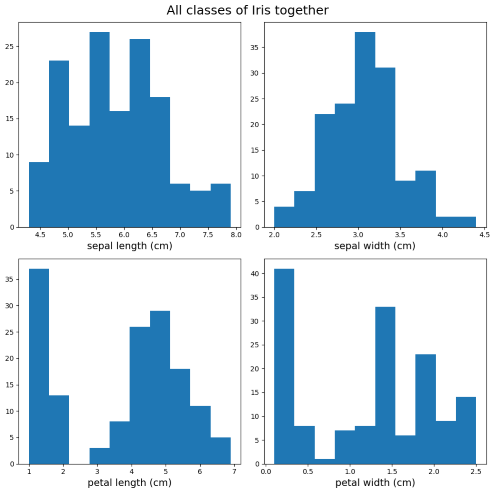
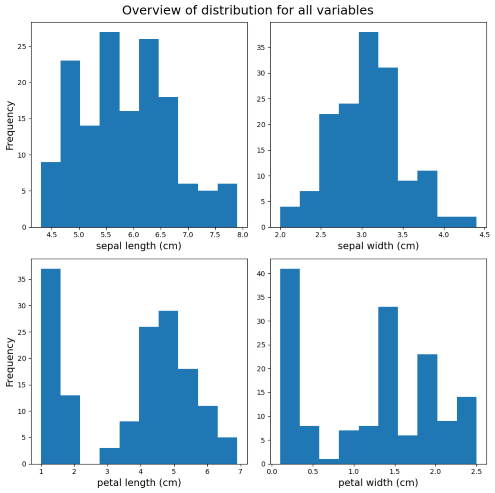
Hists improved to include y label for clarity of what is being measured on the y axis. Images updated in readme according.

diff --git a/analysis.py b/analysis.py
@@ -64,6 +64,7 @@ def hist_overall_and_per_class(variables_and_filenames): # creating a function w
                         plt.subplot(1, 2, 1) # number of rows and columns needed for the subplot is defined
                         plt.hist(df[variable_to_plot]) # histogram is created using the value assigned to the variable_to_plot variables and the check the entire dataset
                         plt.title('All classes of Iris together') # adding the title to the first subplot
+                        plt.ylabel('Frequency', fontsize=14) # adding a y label to the first subplot representing y axis for both plots
 
                         plt.subplot(1, 2, 2) # plotting the subplot to be placed in the second column
                         all_sepal_lengths = [df[df['class'] == 'Iris-setosa'][variable_to_plot], df[df['class'] == 'Iris-versicolor'][variable_to_plot], df[df['class'] == 'Iris-virginica'][variable_to_plot]] # using the filtered datasets to select the information per class of Iris to enable colour coding of the histogram per class
@@ -81,7 +82,7 @@ def hist_overall_and_per_class(variables_and_filenames): # creating a function w
 
                         plt.suptitle(f'Distribution of {variable_to_plot}', fontsize = 18, y= 1.05) # setting the overall title for the figure
                         # Adding a super x label to replace having two separate labels for the x axis setting the  position of the text, alignment, fontsize and style
-                        plt.figtext(0.5, -0.01, f'{variable_to_plot} (cm)', ha='center', fontsize=14, fontstyle='italic')
+                        plt.figtext(0.5, -0.01, f'{variable_to_plot} (cm)', ha='center', fontsize=14)
 
                         plt.savefig(PNG_filenames, bbox_inches='tight') # saving histograms as a PNG file with bbox_inches set to tight to avoid any text or info being cut from the figure
 
@@ -184,7 +185,8 @@ def hist_sep_per_class(variables_and_filenames, dfs_to_use, df):
                                         plt.subplot(4, 3, s) # dynamically setting the subplot position using the value assigned to s
                                         if s in (1, 4, 7, 10): # program will execute this block of code if the value for s matches one of the values in brackets
                                                 colour_to_use = 'violet'
-                                                plt.yticks([])
+                                               # plt.ylabel('Frequency', fontsize=14) # adding a y label to each row   
+                                                plt.ylabel('Frequency', fontsize=18)  # # adding a y label to the first subplot in each row representing y axis for all plots in row 
                                         elif s in (2, 5, 8, 11): # program will execute this block of code if the value for s matches one of the values in brackets
                                                 colour_to_use = 'navy' # setting colour for bins
                                                 plt.yticks([]) # removing y ticks since it will be the same range as the last plot in each row
@@ -193,6 +195,7 @@ def hist_sep_per_class(variables_and_filenames, dfs_to_use, df):
                                                 colour_to_use = 'orange' # setting the colour for the bins
                                                 plt.tick_params(axis='y', direction='out', right=True, labelright=True, left=False,
                                                                 labelleft=False) # moving the y ticks and labels to the right side of the plot
+                                                plt.yticks([])           
                                         plt.title('--------------------------', fontsize=20) # adding dashes as the title to help separate the subplots based on the variables
                                         setting_axis_limits(s) # calling function for setting the limits for the range on the y axis
                                         plt.hist(class_df[variable_to_plot], bins=bin_edges, color=colour_to_use) # plotting the histogram setting the number of bins and colour of the bins
@@ -217,6 +220,8 @@ def hist_sum_all_variables(variables_and_filenames):
                         plt.subplot(2, 2, i) # number of rows and columns needed for the subplot is defined
                         plt.hist(df[variable_to_plot]) # histogram is created using the value assigned to the variable_to_plot variables and the check the entire dataset
                         plt.xlabel(f'{variable_to_plot} (cm)', fontsize=14)
+                        if i in (1,3): # adding y label to the subplots located on the left
+                                plt.ylabel('Frequency', fontsize=14)
 
                         if i == 4: 
                                 plt.suptitle('Overview of distribution for all variables', y=.98, fontsize=18) # adding the title to the first subplot

diff --git a/README.md b/README.md
@@ -203,7 +203,7 @@ Then the histogram is created again for the subplot in the second position. Howe
 <font size="4"><b>Customizing the histograms</b></font> 
 
 &nbsp;&nbsp;&nbsp;&nbsp;&nbsp;&nbsp;&nbsp;&nbsp;Along with the figure size being set, there are various settings defined for customizing the appearance of the histogram.
-The colour to be used for plotting the data per class is defined, the yticks are removed from the second subplot to avoid overcrowding of the figure as it is using the same range as the first subplot.  An overall title detailing the variable which is being plotted is added and the font size and position set. A shared label for the x-axis is created using `figtext` since the plots share the same variable, the style, size and position of the text is defined. 
+The colour to be used for plotting the data per class is defined, the yticks are removed from the second subplot and no label is added to avoid overcrowding of the figure as it is using the same range as the first subplot.  An overall title detailing the variable which is being plotted is added and the font size and position set. A shared label for the x-axis is created using `figtext` since the plots share the same variable, the style, size and position of the text is defined. 
 
 Lastly, the file is saved using the filename passed in from the dictionary, it is ensured that no data like the title is cut off when saving using the `bbox_inches` attribute. A message is then printed to the user providing the filename and informing that the file has been created.
 
@@ -240,7 +240,7 @@ The `class_df` is then used to determine which class of data is represented in t
 The first item in the `dfs_to_use` list contains the entire unfiltered dataset, which we do not want to plot.   
 An `if` statement checks to ensure the plotting is only carried out for the other items in the list. 
 
-Depending on which subplot is being generated, the colour for the bins is set, the removal of the y ticks or repositioning of the ticks to the right-hand side of the plot in the last column of each row. A label is also added in these loops to show which variable is being plotted in the row.  
+Depending on which subplot is being generated, the colour for the bins is set, the removal of the y ticks or addition of a y label. A label for the x-axis is also added in these loops to show which variable is being plotted in the row.  
 The title field is used to create a line break in between the rows to emphasize the separation of the variables per row.
 
 <font size="4"><b>Setting y-axis range</b></font>  
@@ -276,7 +276,7 @@ For the creation of the histogram file the relevant components in the main code 
 If the file is not existing already, the program continues the `try` path.  
 
 The size of the final figure is then set. A `for` loop is initiated with a counter `i` starting at 1. This counter is important as it will be used to dynamically set the subplot location depending on the iteration. The variable to plot is taken from the `variable_and_filenames` dictionary. This dictionary is also used as the bases for the `for` loop ensuring that each variable will be plotted. 
-Al label is added to the x-axis of each subplot to identify which variable is being shown in a specific plot. 
+A label is added to the x-axis of each subplot to identify which variable is being shown in a specific plot. On the first and third iteration a y label is added.
 
 On the fourth iteration, the loop completes additional one-time steps like adding a title to the plot and setting the location and font size for the title. `Matplotlib.pyplot`'s `tight_layout` is used to adjust the space between the plots as needed. The file is then saved and a message returned to the user informing the file has been created and specifying the filename.
 
@@ -389,14 +389,13 @@ If the understanding of the correlation of the variables was based solely on the
 
 Due to the heavy overlap of the Versicolor and Virginica markers on the sepal length vs sepal width plot, we can determine that this pairing would not be recommended for the use of trying to distinguish between the different classes. The wide spread of data for the variables also shows us that there is a lot of variety in the ranges in this pairing.  
 
-In contrast we see the class markers overlapping a lot less for the petal length vs petal width plot and so this pairing may be a better candidate to use as clusters are more defined per the individual classes.
+In contrast we see the class markers overlapping a lot less for the petal length vs petal width plot and so this pairing may be a better candidate to use as clusters are more defined per the individual classes. We can also see that this pairing appears to have the strongest relationship when looking at the scatter plot, this we know is correct from our analysis of the calculated correlations, with the correlation coefficient of the petal width & petal width for the entire dataset coming to 0.962757. 
 
 From the plots we can also see that of the classes, the Virginica class tends to have the widest and longest petals, with Setosa being much smaller in this respect.  
 
-The scatter plot illustrates the variety in shape and size of the characteristics per class while also being a useful tool for potentially helping classify the data or make predictions about the class of an Iris depending on the measurements. For example, in this case, it would be most easily used to determine if an Iris was Setosa or not due to their more distinct sizes compared to the Versicolor and Virginica classes.
+The scatter plot illustrates the variety in shape and size of the characteristics per class while also being a useful tool for potentially helping classify the data or make predictions about the class of an Iris depending on the measurements. For example, it would be most easily used to determine if an Iris was Setosa or not due to their more distinct sizes compared to the Versicolor and Virginica classes.
 
-The scatter plot also helps to visualise the correlation previously discussed for each of the variables. 
-By seeing the plots of the pairings colour coding per class we can match the calculated correlation to the patterns in the plot, helping to show how the values of the variables per class impacts the correlation.
+The scatter plot also helps to visualise the correlation, by seeing the plots of the pairings colour coding per class we can match the calculated correlation to the patterns in the plot, helping to show how the values of the variables per class impacts the correlation.
 
 ### Histogram analysis
 
@@ -422,14 +421,14 @@ Keeping this in mind, we'll take a look further into the different variables sep
 
 ![Histogram showing petal length overall and per class](Images_for_readme/plots/hist_petal_length.png)  
 
-&nbsp;&nbsp;&nbsp;&nbsp;&nbsp;&nbsp;&nbsp;&nbsp;When looking at the Petal length for the entire dataset as one, there appears to be moderate variety in the data, with one peak completely separated from the remaining cluster. 
+&nbsp;&nbsp;&nbsp;&nbsp;&nbsp;&nbsp;&nbsp;&nbsp;When looking at the Petal length for the entire dataset as one, there appears to be moderate variety in the data. The resulting histogram is non-symmetric bimodal shape, with one peak completely separated from the remaining cluster. 
 
-From the summary file we identified that the standard deviation for the petal length is 1.76cm. Knowing the range is 1cm (min) to 6.9cm (max) we can interpret that that there is a moderate spread from the mean. From the text file we can also see that the mean is 3.76cm and looking at the plot above we see that this is one of the smaller bins in the histogram and that the distribution is not uniform with a clear gap between two clusters in the histogram.
+From the summary file we identified that the standard deviation for the petal length is 1.76cm. Knowing the range is 1cm (min) &rarr; 6.9cm (max) we can interpret that that there is a moderate spread from the mean. From the text file we can also see that the mean is 3.76cm and looking at the plot above we see that this is one of the smaller bins in the histogram and that the distribution is not uniform with a clear gap between two clusters in the histogram.
 
 Adding in the class a new perspective is shown across the dataset.  
-For the Setosa we can see these flowers are separated from the rest with a strong grouping between 1 - 1.5 (cm). 
+For the Setosa we can see these flowers are separated from the rest, ranging from 1cm &rarr; 1.9cm, with a strong grouping between 1cm &rarr; 1.5cm. 
 
-For the Versicolor and Virginica we see an overlap with these two classes having more similarities when it comes to their petal length.
+For the Versicolor and Virginica we see an overlap with these two classes, suggesting these two classes have more similarities when it comes to their petal length compared to the Setosa class. With both classes contributing to the cluster on the right of the plot, spanning from 3cm &rarr; 6.9cm total, with Versicolor lying between 3cm &rarr; 5.1cm and Virginica between 4.5cm &rarr; 6.9cm. We can see for Versicolor the majority of entries lie between 4cm &rarr; 5cm. Lastly for the Virginica class we see the main grouping between 4.5cm &rarr; 5.75cm. 
 
 This shows us that the Setosa class are more easily distinguished from the remaining classes when it comes to petal length. We also see that the Virginica class are likely to be the longest of the petals while the Versicolor will fall somewhere in between the two.
 
@@ -442,46 +441,47 @@ For Versicolor we can see the histogram is a unimodal structure, while not as se
 
 ![Histogram showing petal width overall and per class](Images_for_readme/plots/hist_petal_width.png)
 
-&nbsp;&nbsp;&nbsp;&nbsp;&nbsp;&nbsp;&nbsp;&nbsp;Coming to the next variable, we'll now move on to the petal width. Looking at the dataset as a whole, we see the histogram is multimodal with multiple peaks in the plot suggesting that there is a lot of variability in petal widths across the dataset.
+&nbsp;&nbsp;&nbsp;&nbsp;&nbsp;&nbsp;&nbsp;&nbsp;Coming to the next variable, we'll now move on to the petal width. Looking at the dataset as a whole, we see the histogram is multimodal, ranging from 0.1cm &rarr; 2.5cm. The multiple peaks suggests that there is a lot of variability in petal widths across the dataset, from our summary file we can see there is a standard deviation of 0.763cm for the petal width suggesting moderate variability when comparing the overall range. 
 
 Interestingly, when we add the 3rd factor of class into the plot, we can see that the three peaks represent the main clusters for the individual classes. 
 
 ![Histogram showing petal width separated per class](Images_for_readme/plots/petal_width_per_class.png)
 
-Similarly to the petal length, we see that the Setosa data is clustered to the smaller end of the x-axis between (0.1cm to 0.6cm), with this clear separation of the petal width and length these characteristics could be a good candidate if trying to use the data to identify if an Iris is of the Setosa class.
+Similarly to the petal length, we see that the Setosa data is clustered to the smaller end of the x-axis between 0.1cm &rarr; 0.6cm, with this clear separation of the Setosa class from the rest when looking at the petal width and length, these characteristics could be a good candidate if trying to use the data for classification to identify if an Iris is of the Setosa class.
 
-With the Versicolor and Virginica classes, we again see slight overlap in the ranges. The histogram for the Versicolor class is unimodal with a clear peak in the distribution and lies again between the Setosa and Virginica classes in terms of size.  
-The Virginica class appears to have a less distinct peak and has more of a spread with the largest standard deviation of the group (0.27cm) and the largest petals in both length and width.
+With the Versicolor(1cm &rarr; 1.8cm) and Virginica(1.4cm &rarr; 2.5cm) classes, we again see slight overlap in the ranges. The histogram for the Versicolor class is unimodal with a clear peak in the distribution from 1.25cm &rarr; 1.5cm. The Versicolor entres again lie between the Setosa and Virginica classes in terms of size. 
+
+The Virginica class appears to have a less distinct peak and has more of a spread, this is confirmed by the standard deviation of 0.27cm making it the largest std of the group. From the histograms we can also see the Virginica call tends to the largest petals in both length and width.
 
 <font size="4"><b>Sepal length</b></font> 
 
 ![Histogram showing sepal length overall and per class](Images_for_readme/plots/hist_sepal_length.png)
 
-&nbsp;&nbsp;&nbsp;&nbsp;&nbsp;&nbsp;&nbsp;&nbsp;We'll next change from reviewing the petal characteristics to focus on the sepal length. Again, we see a multimodal histogram with the majority of the data clustered to the centre and left of the plot.  
+&nbsp;&nbsp;&nbsp;&nbsp;&nbsp;&nbsp;&nbsp;&nbsp;We'll next change from reviewing the petal characteristics to focus on the sepal length. Again, we see a multimodal histogram with the majority of the data clustered to the centre and slightly left of the plot.  
 
 In contrast to the histograms for petal length and width, we can see in the sepal length plot that there is much more of an overlap between the 3 species.  
 
 ![Histogram showing sepal length separated per class](Images_for_readme/plots/sepal_length_per_class.png)
 
-When looking at the classes isolated with their own plots, we can see that again the Setosa class falls towards the smaller end of the plot with a single peak. When also taking what we have learnt from the petal width and length into consideration, the data shows that the Setosa flowers tends to be clustered closely together in size, seeming to typically be smaller for these characteristics compared to the other classes. 
+When looking at the classes isolated with their own plots, we can see that again the Setosa class falls towards the smaller end of the x-axis, ranging from 4.3cm &rarr; 7.9cm, with the centre of data a single peak from 4.75cm &rarr; 5cm. When also taking what we have learnt from the petal width and length into consideration, the data shows that the Setosa flowers tends to be clustered closely together in size, seeming to typically be smaller for these characteristics compared to the other classes. 
 
 While there are many intrinsic factors which could contribute to this similarity between the Versicolor and Virginica class, it has been noted that botanist Edgar Anderson (who provided the data for R.A. Fisher to use) believed that the versicolor class could be the "result of hybridisation between the virginica and another class of Iris" [^2]. This adds another perspective as to why we may see the similarities between the two classes, also acting as reminder that while we can analyse the information contained within the dataset, there is nuance and further context that is not reflected.
 
-The range for Versicolor, like for the petal width and length, appears to be in the middle of the Setosa and Virginica clusters. Virginica again seeming to contribute mostly to the right end of the plot with a larger sepal length. 
+The range for Versicolor, like for the petal width and length, appears to be in the middle of the Setosa and Virginica clusters from 4.9cm &rarr; 7cm. Virginica, like with the variables discussed before, seeming to contribute to some of the larger records for sepal length from 4.9cm &rarr; 7.9. We can also see that the Virginica class has the widest spread of sepal length recorded with a std of 0.64cm, the highest of the 3 classes. 
 
 <font size="4"><b>Sepal Width</b></font> 
 
 ![Histogram showing sepal width overall and per class](Images_for_readme/plots/hist_sepal_width.png)  
 
-&nbsp;&nbsp;&nbsp;&nbsp;&nbsp;&nbsp;&nbsp;&nbsp;Lastly, we'll look to the sepal width. This histogram appears to be the closest of the variables to match the typical normal distribution shape, with one main peak around the mean (3.05cm).
+&nbsp;&nbsp;&nbsp;&nbsp;&nbsp;&nbsp;&nbsp;&nbsp;Lastly, we'll look to the sepal width. This histogram appears to be the closest of the variables to the typical normal distribution shape, with one main peak around the mean (3.05cm).
 
 Like with the sepal width, there is much more overlap between the classes versus the histograms of the petal length and width. 
 
 ![Histogram showing sepal width separated per class](Images_for_readme/plots/sepal_width_per_class.png)
 
-In contrast to the other variables, we see the Setosa cluster is located primarily on the right of the plot, making up the majority of the entries for the larger values recorded. 
+In contrast to the other variables, we see the Setosa cluster is located primarily on the right of the plot, making up the majority of the entries for the larger values recorded from 2.3cm &rarr; 4.4cm. We can also see that the Setosa cluster has the most bins, indicating the highest level of variability within the Setosa class. This is confirmed by the std which for the sepal width is highest within the Setosa class with 0.38cm.
 
-Versicolor in comparison is making up the left tail of the distribution, like the Setosa class the Virginica data also appears to be unimodal with one peak. 
+In comparison Versicolor is making up the left tail of the distribution positioned from 2cm &rarr; 3.4cm with a std of 0.31 and Virginica sitting in the of the plot from 2.2cm &rarr; 3.8cm with the smallest std of the group with 0.3cm. Each of the classes individual histogram appears to most comparable to a unimodal shape with one peak. 
 
 From looking at the sepal variables (width and length) we see for both that the ranges for the sepal characteristics tend to overlap more than that of the petal characteristics. The would indicate that the sepal characteristics are a less suitable option for identifying the class. 
 
@@ -500,7 +500,6 @@ While there are some who question the use of the dataset, due to its simplicity 
 
 ## Additional resources/reading
 ### Libraries within python
-
 
 &nbsp;&nbsp;&nbsp;&nbsp;&nbsp;&nbsp;&nbsp;&nbsp;Within the program we are importing various external libraries and classes to use throughout the notebook including: 
 - `Pandas`
@@ -568,34 +567,36 @@ For *analysis.py* it is pulling the variable and `.png` filename to be used with
 
 ## End
 
-[^1]: Quoted in Andy Kirk (2012) Data Visualization: a Successful Design Process : Data Visualization: a Successful Design Process. Birmingham, UK: Packt Publishing (Community Experience Distilled). Available at: https://search.ebscohost.com/login.aspx?direct=true&AuthType=ip,sso&db=e000xww&AN=526173&site=eds-live&scope=site  
-[^2]: Unwin, A. and Kleinman, K. (2021) ‘The iris data set: In search of the source of virginica’, Significance, 18(6), pp. 1-2. doi:10.1111/1740-9713.01589.  
-[^3]: https://en.wikipedia.org/wiki/Iris_flower_data_set#:~:text=).%5B1%5D-,Use%20of%20the%20data%20set,-%5Bedit%5D  
-[^4]: Horst, A.M., Hill, A.P. and Gorman, K.B. (2022) ‘Palmer Archipelago Penguins Data in the palmerpenguins R Package - An Alternative to Anderson’s Irises’, R Journal, 14(1), pp. 244–254. doi:10.32614/rj-2022-020.  
-[^5]: Maeck, M. (2018) ‘La classification des iris de Fisher revisitée’, Naturalistes Belges, 99(3), pp. 7. Available at: https://search.ebscohost.com/login.aspx?direct=true&AuthType=ip,sso&db=asn&AN=137579970&site=eds-live&scope=site  
-[^6]: https://levelup.gitconnected.com/unveiling-the-mysteries-of-the-iris-dataset-a-comprehensive-analysis-and-machine-learning-f5c4f9dbcd6d#:~:text=as%20a%20percentage.-,Why%20is%20the%20Iris%20Dataset%20so%20Popular%3F,-The%20Iris%20dataset  
-[^7]: https://pandas.pydata.org/docs/user_guide/10min.html#min  
-[^8]: https://www.geeksforgeeks.org/python-pandas-dataframe-corr/  
-[^9]: https://medium.com/@anala007/how-to-reshape-your-dataframe-with-pandas-stack-and-unstack-functions-3e2c86edc04a  
-[^10]: https://matplotlib.org/stable/users/explain/colors/colors.html  
-[^11]: https://matplotlib.org/2.0.2/api/markers_api.html  
+[^1]: Quoted in Andy Kirk (2012) Data Visualization: a Successful Design Process : Data Visualization: a Successful Design Process. Birmingham, UK: Packt Publishing (Community Experience Distilled). Available at: https://search.ebscohost.com/login.aspx?direct=true&AuthType=ip,sso&db=e000xww&AN=526173&site=eds-live&scope=site   
+[^2]: Unwin, A. and Kleinman, K. (2021) ‘The iris data set: In search of the source of virginica’, Significance, 18(6), pp. 1-2. doi:10.1111/1740-9713.01589.   
+[^3]: https://en.wikipedia.org/wiki/Iris_flower_data_set#:~:text=).%5B1%5D-,Use%20of%20the%20data%20set,-%5Bedit%5D   
+[^4]: Horst, A.M., Hill, A.P. and Gorman, K.B. (2022) ‘Palmer Archipelago Penguins Data in the palmerpenguins R Package - An Alternative to Anderson’s Irises’, R Journal, 14(1), pp. 244–254. doi:10.32614/rj-2022-020.   
+[^5]: Maeck, M. (2018) ‘La classification des iris de Fisher revisitée’, Naturalistes Belges, 99(3), pp. 7. Available at: https://search.ebscohost.com/login.aspx?direct=true&AuthType=ip,sso&db=asn&AN=137579970&site=eds-live&scope=site   
+[^6]: https://levelup.gitconnected.com/unveiling-the-mysteries-of-the-iris-dataset-a-comprehensive-analysis-and-machine-learning-f5c4f9dbcd6d#:~:text=as%20a%20percentage.-,Why%20is%20the%20Iris%20Dataset%20so%20Popular%3F,-The%20Iris%20dataset   
+[^7]: https://pandas.pydata.org/docs/user_guide/10min.html#min   
+[^8]: https://www.geeksforgeeks.org/python-pandas-dataframe-corr/   
+[^9]: https://medium.com/@anala007/how-to-reshape-your-dataframe-with-pandas-stack-and-unstack-functions-3e2c86edc04a   
+[^10]: https://matplotlib.org/stable/users/explain/colors/colors.html   
+[^11]: https://matplotlib.org/2.0.2/api/markers_api.html   
 [^12]: https://matplotlib.org/stable/api/_as_gen/matplotlib.pyplot.legend.html  
-[^13]: https://matplotlib.org/3.1.1/api/_as_gen/matplotlib.pyplot.suptitle.html  
-[^14]: https://www.w3schools.com/python/matplotlib_scatter.asp  
-[^15]: https://www.geeksforgeeks.org/matplotlib-pyplot-hist-in-python/  
-[^16]: https://www.pythoncharts.com/matplotlib/histograms  
-[^17]: https://matplotlib.org/stable/api/_as_gen/matplotlib.pyplot.xticks.html#matplotlib-pyplot-xticks  
-[^18]: https://www.w3schools.com/python/matplotlib_labels.asp   
-[^19]: https://www.geeksforgeeks.org/how-to-set-the-x-and-the-y-limit-in-matplotlib-with-python/  
-[^20]: https://www.geeksforgeeks.org/matplotlib-pyplot-figtext-in-python/  
-[^21]: https://www.geeksforgeeks.org/matplotlib-pyplot-figure-in-python/  
-[^22]: https://numpy.org/devdocs/user/whatisnumpy.html
-[^23]: https://www.datacamp.com/tutorial/python-numpy-tutorial  
-[^24]: https://realpython.com/np-linspace-numpy/   
-
+[^13]: https://matplotlib.org/3.1.1/api/_as_gen/matplotlib.pyplot.suptitle.html   
+[^14]: https://www.w3schools.com/python/matplotlib_scatter.asp   
+[^15]: https://www.geeksforgeeks.org/matplotlib-pyplot-hist-in-python/   
+[^16]: https://www.pythoncharts.com/matplotlib/histograms   
+[^17]: https://matplotlib.org/stable/api/_as_gen/matplotlib.pyplot.xticks.html#matplotlib-pyplot-xticks   
+[^18]: https://www.w3schools.com/python/matplotlib_labels.asp    
+[^19]: https://www.geeksforgeeks.org/how-to-set-the-x-and-the-y-limit-in-matplotlib-with-python/   
+[^20]: https://www.geeksforgeeks.org/matplotlib-pyplot-figtext-in-python/   
+[^21]: https://www.geeksforgeeks.org/matplotlib-pyplot-figure-in-python/   
+[^22]: https://numpy.org/devdocs/user/whatisnumpy.html  
+[^23]: https://www.datacamp.com/tutorial/python-numpy-tutorial   
+[^24]: https://realpython.com/np-linspace-numpy/    
 [^25]: https://www.analyticsvidhya.com/blog/2023/12/mastering-tabulate/   
-[^26]: https://docs.python.org/3/library/os.html
-[^27]: https://www.freecodecamp.org/news/how-to-check-if-a-file-exists-in-python/      
-[^28]: https://www.simplilearn.com/tutorials/python-tutorial/enumerate-in-python#what_does_enumerate_do_in_python 
+[^26]: https://docs.python.org/3/library/os.html  
+[^27]: https://www.freecodecamp.org/news/how-to-check-if-a-file-exists-in-python/       
+[^28]: https://www.simplilearn.com/tutorials/python-tutorial/enumerate-in-python#what_does_enumerate_do_in_python  
 [^29]: https://www.geeksforgeeks.org/python-dictionary-items-method/  
-[^]: https://www.markdownguide.org/hacks/ - Details for enhancing formatting in markdown. 
+
+[^]: https://www.markdownguide.org/hacks/ - Details for enhancing formatting in markdown.   
+[^]: https://www.labxchange.org/library/items/lb:LabXchange:10d3270e:html:1 - tips for reading histograms  
+[^]: https://www.westga.edu/academics/research/vrc/assets/docs/scatterplots_and_correlation_notes.pdf - tips for scatter plots and correlation analysis
